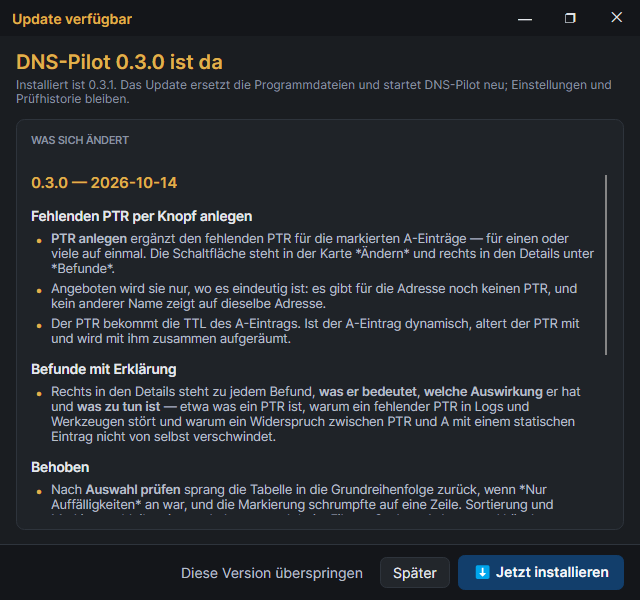
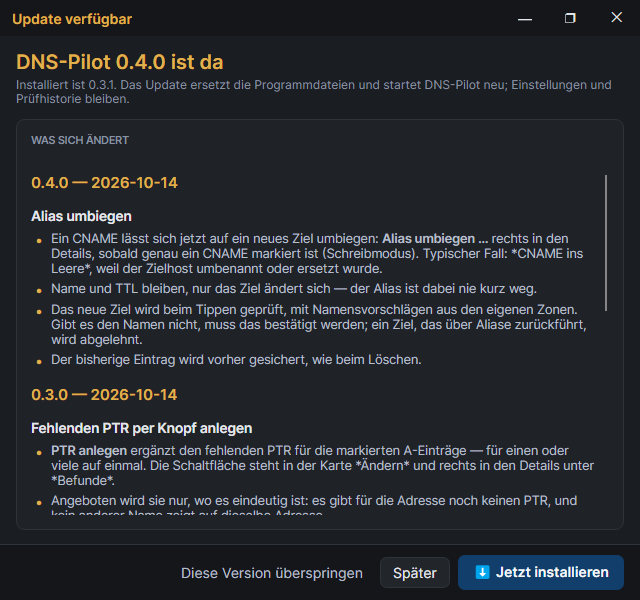
feat: Änderungen per Kontextmenü statt in der Leiste
Lars: „das Ribbon wird ganz schön voll". PTR anlegen und Löschen wandern
aus der ÄNDERN-Karte ins Kontextmenü der Tabelle, dazu Auswahl prüfen,
Alias umbiegen und „Änderungen erlauben". Was nicht zur Auswahl passt, ist
ausgeblendet. Ein Rechtsklick auf eine nicht markierte Zeile markiert sie
vorher, damit „Löschen …" nicht auf die alte Auswahl wirkt.

Die Karte hat nur noch Schalter, Neuer Host, Sicherungen. Bild
kontextmenue.png im Bildschirmfoto-Modus.

Changed region(s): [[0.0312, 0.3, 0.9375, 0.87], [0.1875, 0.09, 0.3438, 0.12]]

diff --git a/DnsPilot/Views/MainWindow.axaml.cs b/DnsPilot/Views/MainWindow.axaml.cs
@@ -6,7 +6,9 @@ using Avalonia.Controls;
 using Avalonia.Input;
 using Avalonia.Input.Platform;
 using Avalonia.Platform.Storage;
+using Avalonia.Interactivity;
 using Avalonia.Threading;
+using Avalonia.VisualTree;
 using DnsPilot.Services;
 using DnsPilot.ViewModels;
 using Microsoft.Extensions.DependencyInjection;
@@ -56,6 +58,10 @@ public partial class MainWindow : ChromeWindow, IShellServices
         RecordsGrid.SelectionChanged += (_, _) =>
             viewModel.SelectedRows = RecordsGrid.SelectedItems.OfType<RecordRow>().ToList();
 
+        // Rechtsklick auf eine nicht markierte Zeile markiert sie, bevor das
+        // Kontextmenü aufgeht — sonst wirkte „Löschen …" auf die alte Auswahl.
+        RecordsGrid.AddHandler(PointerPressedEvent, OnGridPointerPressed, RoutingStrategies.Tunnel, handledEventsToo: true);
+
         RecordsGrid.Sorting += (_, e) => _sortColumn = e.Column;
         viewModel.PropertyChanging += (_, e) =>
         {
@@ -86,6 +92,17 @@ public partial class MainWindow : ChromeWindow, IShellServices
             if (_settings is not null) CaptureLayout(_settings.Current);
             viewModel.PersistOnExit();
         };
+    }
+
+    private void OnGridPointerPressed(object? sender, PointerPressedEventArgs e)
+    {
+        if (!e.GetCurrentPoint(RecordsGrid).Properties.IsRightButtonPressed) return;
+
+        var row = (e.Source as Visual)?.FindAncestorOfType<DataGridRow>(includeSelf: true);
+        if (row?.DataContext is RecordRow item && !RecordsGrid.SelectedItems.Contains(item))
+        {
+            RecordsGrid.SelectedItem = item;
+        }
     }
 
     // ------------------------------------------------------------------

diff --git a/DnsPilot/Views/ScreenshotTool.cs b/DnsPilot/Views/ScreenshotTool.cs
@@ -126,6 +126,16 @@ internal static class ScreenshotTool
         await SettleAsync(main, rounds: 8);
         Save(main, outputDirectory, "ptr-fehlt.png");
 
+        // --- Kontextmenü der Tabelle ------------------------------------------
+        vm.SelectedRows = vm.VisibleRows.Take(1).ToList();
+        if (main.RecordsGrid.ContextMenu is { } menu)
+        {
+            menu.Open(main.RecordsGrid);
+            await SettleAsync(main, rounds: 6);
+            Save(menu, outputDirectory, "kontextmenue.png");
+            menu.Close();
+        }
+
         // --- Neuer Host --------------------------------------------------------
         var newHost = new NewHostWindowViewModel(server, vm.Inventory, 3600, "10.10.2.33")
         {
@@ -205,7 +215,7 @@ internal static class ScreenshotTool
         }
     }
 
-    private static void Save(Window window, string directory, string fileName)
+    private static void Save(Control window, string directory, string fileName)
     {
         var size = new PixelSize(
             Math.Max(1, (int)window.Bounds.Width),

diff --git a/README.md b/README.md
@@ -164,6 +164,13 @@ verschrotteter Rechner. Im Zweifel die TCP-Prüfung einschalten oder nachfragen.
 Ändern ist gesperrt, bis **Änderungen erlauben** angehakt ist. Beim nächsten
 Start ist die Sperre wieder an.
 
+Was sich auf vorhandene Einträge bezieht, steht im **Kontextmenü der Tabelle**
+(Rechtsklick): Auswahl prüfen, PTR anlegen, Alias umbiegen, Löschen — und
+„Änderungen erlauben“ zum Umschalten. Ein Rechtsklick auf eine nicht markierte
+Zeile markiert sie vorher. Angezeigt wird nur, was zur Auswahl passt.
+
+![Kontextmenü](docs/kontextmenue.png)
+
 **＋ Neuer Host** legt einen statischen A-Eintrag an und, wenn es für das Netz
 eine Reverse-Zone gibt, den passenden PTR. Ist die Adresse schon vergeben oder
 der Name schon da, muss das ausdrücklich bestätigt werden. Wer vorher nach
@@ -173,17 +180,17 @@ einem Netz gesucht hat, bekommt die erste freie Adresse vorgeschlagen.
 
 **PTR anlegen** ergänzt den fehlenden PTR für die markierten A-Einträge — auch
 für viele auf einmal (z. B. nach „Nur Auffälligkeiten“ alle mit *PTR fehlt*
-markieren). Die Schaltfläche steht auch rechts in den Details unter *Befunde*.
-Angeboten wird sie nur, wenn es für die Adresse noch gar keinen PTR gibt, die
+markieren, Rechtsklick). Der Befehl steht auch als Schaltfläche rechts in den
+Details unter *Befunde*. Angeboten wird er nur, wenn es für die Adresse noch gar keinen PTR gibt, die
 Reverse-Zone beschreibbar ist und kein anderer Name auf dieselbe Adresse zeigt
 — sonst wäre offen, welcher Name in den PTR gehört. Der PTR bekommt die TTL des
 A-Eintrags; ist der A-Eintrag dynamisch, altert der PTR mit und wird mit ihm
-zusammen aufgeräumt. Der Tooltip der Schaltfläche listet, was angelegt wird.
+zusammen aufgeräumt. Der Tooltip der Schaltfläche in den Details listet, was angelegt wird.
 
 ![PTR fehlt](docs/ptr-fehlt.png)
 
-**Alias umbiegen …** steht rechts in den Details, sobald genau ein CNAME
-markiert ist — etwa bei *CNAME ins Leere*, wenn der Zielhost umbenannt oder
+**Alias umbiegen …** steht im Kontextmenü und rechts in den Details, sobald
+genau ein CNAME markiert ist — etwa bei *CNAME ins Leere*, wenn der Zielhost umbenannt oder
 ersetzt wurde. Name und TTL des Alias bleiben, nur das Ziel ändert sich; der
 Alias verschwindet dabei nicht kurz. Das neue Ziel wird beim Tippen geprüft
 (Namensvorschläge aus den eigenen Zonen, ohne Punkt gilt die Zone des Alias):
@@ -193,7 +200,7 @@ bisherige Eintrag landet vorher in derselben Sicherung wie beim Löschen.
 
 ![Alias umbiegen](docs/alias-umbiegen.png)
 
-**Löschen …** (oder Entf in der Tabelle) zeigt die markierten Einträge noch
+**Löschen …** (Kontextmenü oder Entf in der Tabelle) zeigt die markierten Einträge noch
 einmal einzeln. Zu einem A-Eintrag wird der PTR, der auf ihn zeigt, mit
 vorgeschlagen. Gelöscht wird erst nach dem Haken bei *Ich habe die Liste
 geprüft*.

diff --git a/CLAUDE.md b/CLAUDE.md
@@ -103,9 +103,8 @@ Was gebaut ist:
   übernimmt die TTL des A und setzt bei dynamischem A `-AgeRecord`, damit der
   PTR nicht als statischer Überrest zurückbleibt. Gegen die echten DCs noch
   nicht gelaufen.
-- **Alias umbiegen** (seit 0.4.0, Schreibmodus): Knopf in der Detailansicht,
-  wenn genau ein CNAME markiert ist (bewusst nicht in der ÄNDERN-Karte — dort
-  bräche die Kartenreihe bei 1440 px um). `RetargetCnameWindow` prüft live per
+- **Alias umbiegen** (seit 0.4.0, Schreibmodus): im Kontextmenü und als Knopf
+  in der Detailansicht, wenn genau ein CNAME markiert ist. `RetargetCnameWindow` prüft live per
   `CnameTargetValidator` (Kurzname bekommt die Zone des Alias, nicht
   vorhandenes Ziel bestätigen, Alias als Ziel warnt, Schleife blockiert).
   Vorher Sicherung über `DeletionBackup`. `IDnsServer.RetargetCnameAsync`:
@@ -113,6 +112,12 @@ Was gebaut ist:
   ändern, `Set-DnsServerResourceRecord -OldInputObject -NewInputObject`
   (Muster aus der Microsoft-Doku) — der Alias ist nie weg. Gegen die echten
   DCs noch nicht gelaufen.
+- **Kontextmenü der Tabelle** (seit 0.4.0): Auswahl prüfen, PTR anlegen,
+  Alias umbiegen, Löschen, „Änderungen erlauben“. Einträge, die zur Auswahl
+  nicht passen, sind ausgeblendet (`HasPtrFixes`, `SelectionIsCname`). Die
+  ÄNDERN-Karte hat nur noch Schalter, Neuer Host, Sicherungen — Lars: „das
+  Ribbon wird ganz schön voll“. Neue Aktionen auf Einträge gehören ins
+  Kontextmenü, nicht in die Karten.
 - **Widerspruch PTR/A** ist nur eine Info, wenn alle Beteiligten dynamisch
   sind (Notebook hat das Netz gewechselt), sonst eine Warnung.
 - **Scavenging in der Domäne** (geprüft 2026-10-13): läuft auf einem der DCs
@@ -303,6 +308,12 @@ lockert, sollte vorher mit dem Endpoint-Schutz-Team sprechen.
   überstimmt ein altes Layout jede spätere Standardbreite im Code. Ob das
   Avalonia-DataGrid eine gezogene Spalte wirklich auf eine absolute Breite
   umstellt, ist nur angenommen, nicht gemessen (Stand 2026-10-13).
+- **Rechtsklick und Auswahl:** ob das Avalonia-DataGrid bei Rechtsklick selbst
+  markiert, ist nicht gemessen (Stand 2026-10-14). `MainWindow.OnGridPointerPressed` (Tunnel, `handledEventsToo`) markiert eine
+  nicht markierte Zeile vor dem Kontextmenü, sonst wirkte „Löschen …“ auf die
+  alte Auswahl. Eine bestehende Mehrfachauswahl bleibt, wenn in sie geklickt
+  wird. `InputGesture` am MenuItem zeigt Tastennamen englisch („Delete“) —
+  deshalb weggelassen.
 - **`IReadOnlyList.Count` im Binding vermeiden** — dafür gibt es `HasFindings`;
   die Eigenschaft liegt auf dem Basis-Interface.
 - Übrige Fallen (WrapPanel statt StackPanel, `--` in XAML-Kommentaren,

diff --git a/CHANGELOG.md b/CHANGELOG.md
@@ -11,10 +11,21 @@ Erlaubt sind Überschriften (`###`), Absätze, Aufzählungen, `**fett**`,
 
 ## 0.4.0 — 2026-10-14
 
+### Ändern per Rechtsklick
+
+- Was sich auf markierte Einträge bezieht, steht jetzt im **Kontextmenü der
+  Tabelle**: Auswahl prüfen, PTR anlegen, Alias umbiegen, Löschen und
+  „Änderungen erlauben“. Ein Rechtsklick auf eine nicht markierte Zeile
+  markiert sie vorher.
+- Die Karte *Ändern* oben enthält nur noch den Schalter, **＋ Neuer Host** und
+  **Sicherungen** — die Leiste ist wieder übersichtlich. Löschen geht
+  weiterhin auch mit Entf.
+
 ### Alias umbiegen
 
 - Ein CNAME lässt sich jetzt auf ein neues Ziel umbiegen: **Alias umbiegen …**
-  rechts in den Details, sobald genau ein CNAME markiert ist (Schreibmodus).
+  im Kontextmenü und rechts in den Details, sobald genau ein CNAME markiert
+  ist (Schreibmodus).
   Typischer Fall: *CNAME ins Leere*, weil der Zielhost umbenannt oder ersetzt
   wurde.
 - Name und TTL bleiben, nur das Ziel ändert sich — der Alias ist dabei nie
